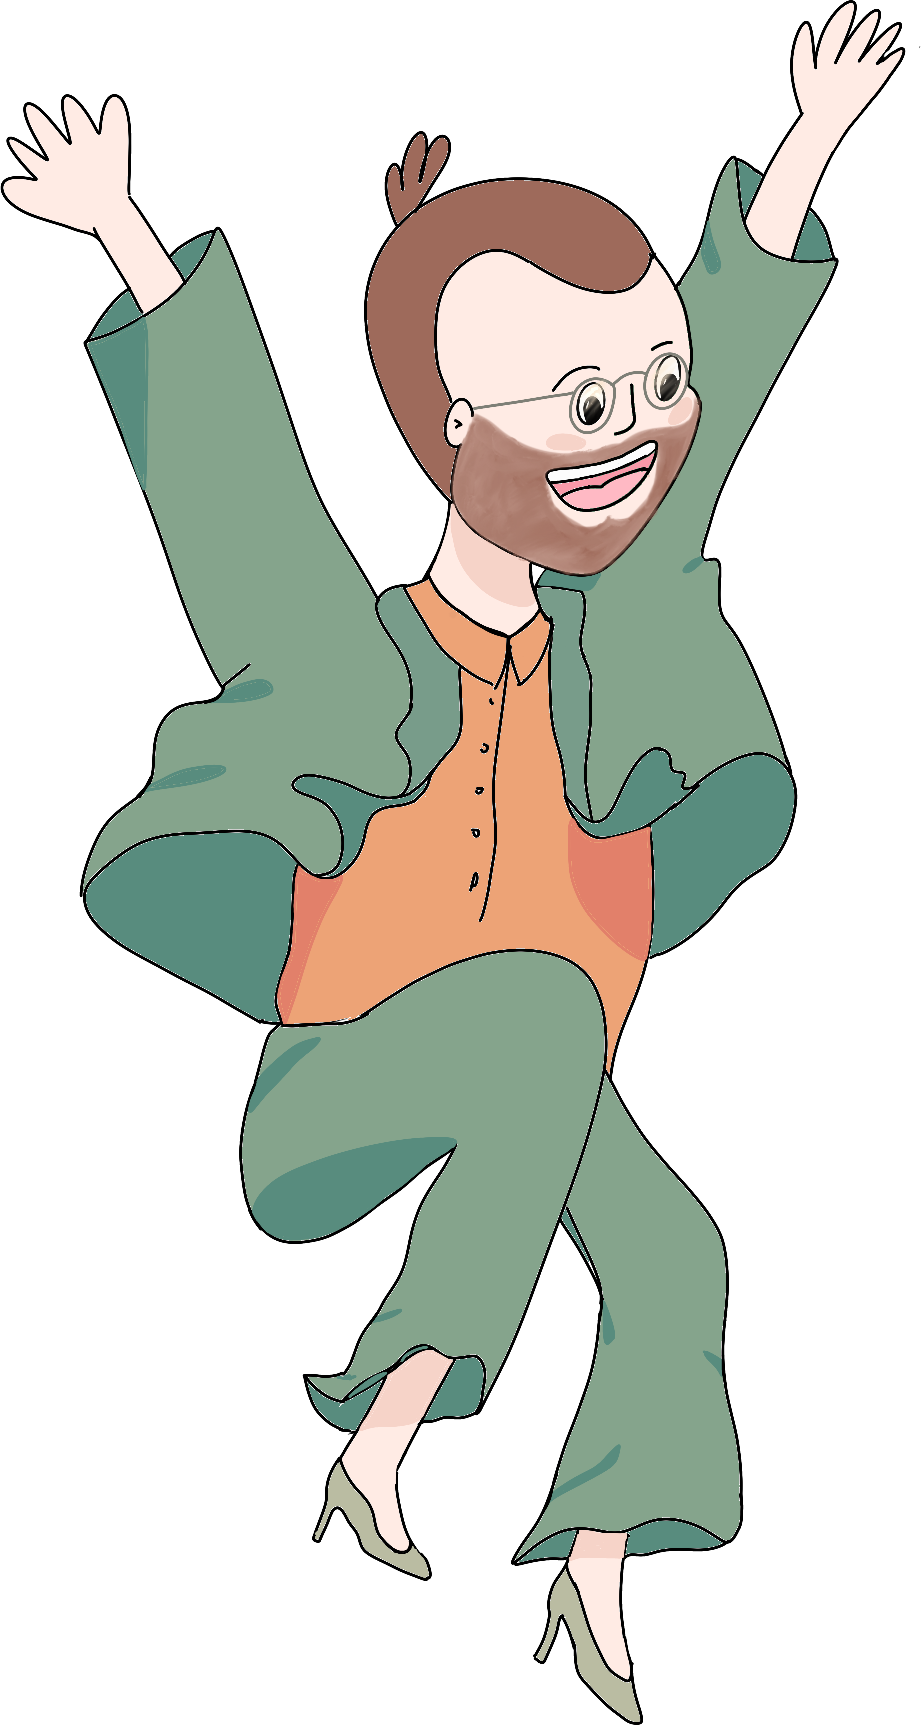
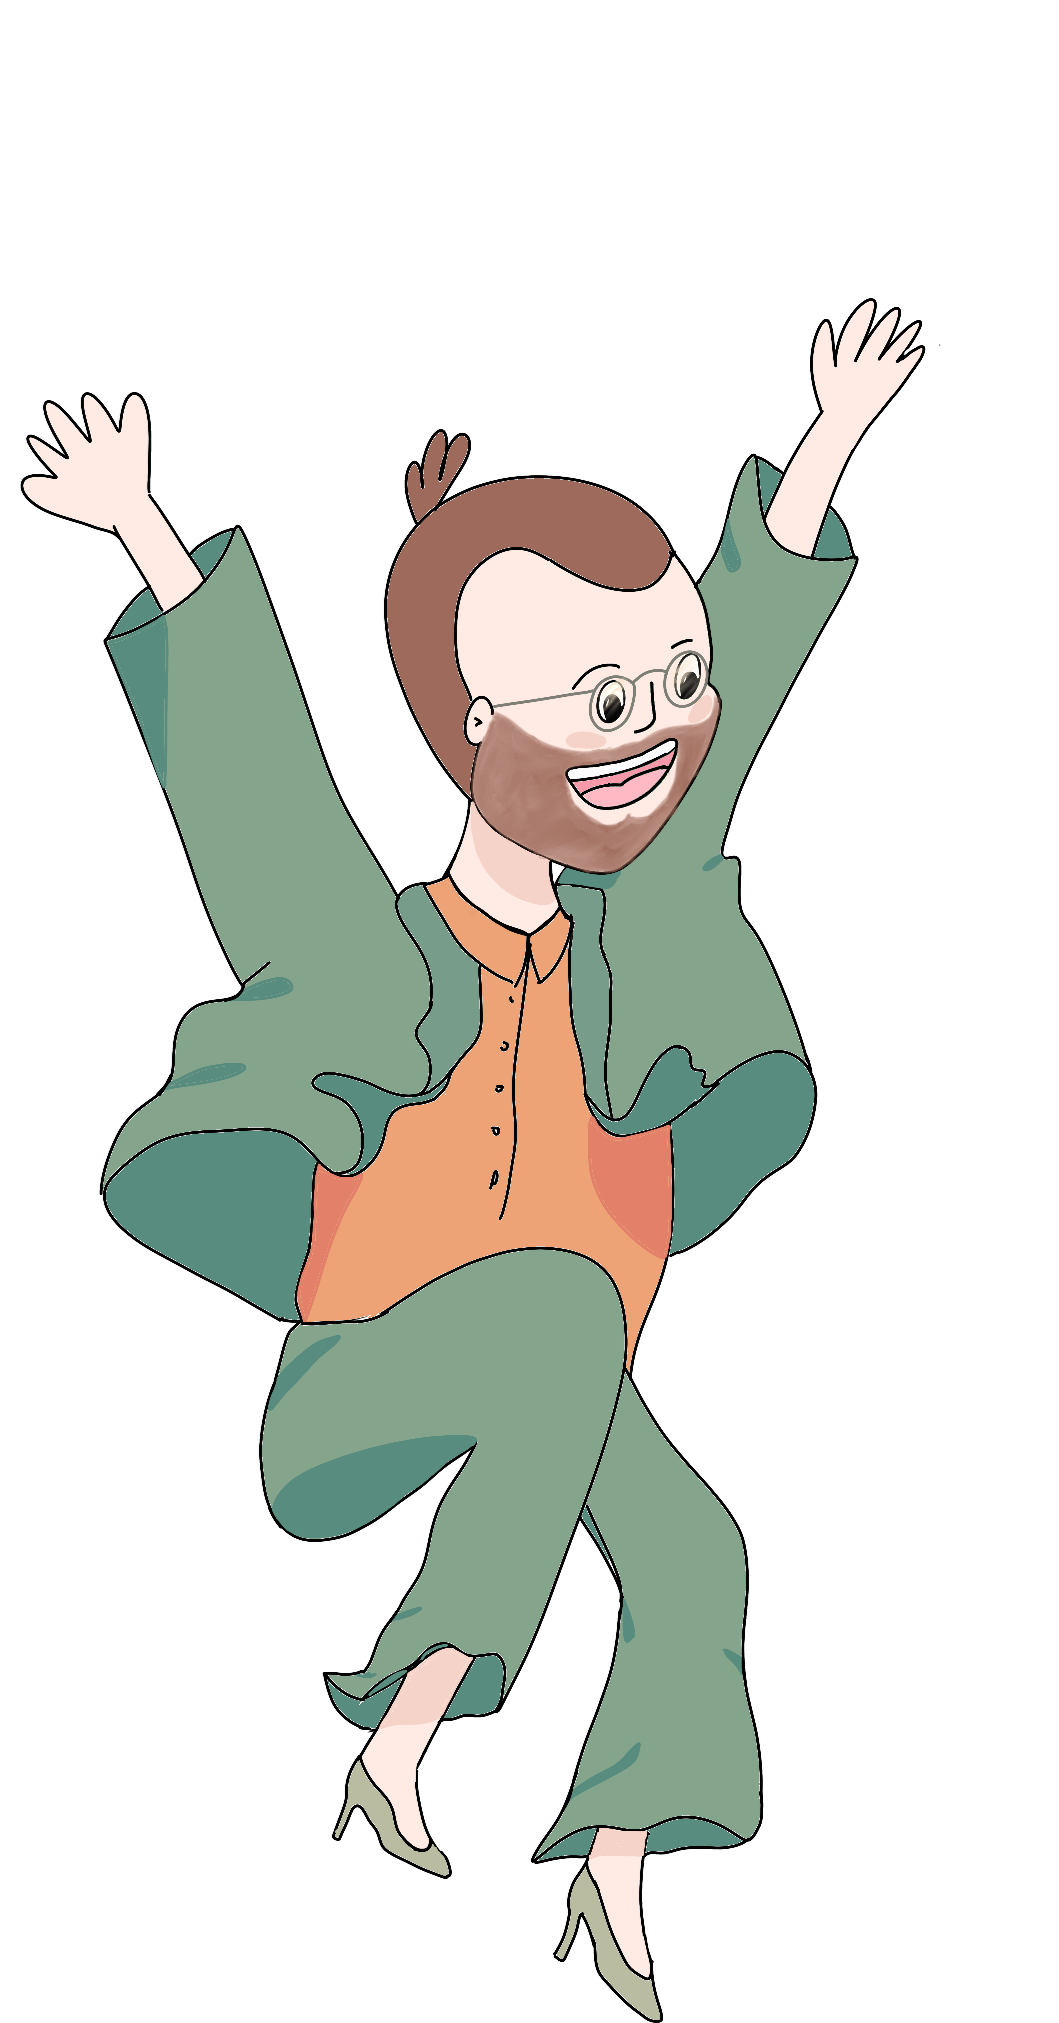
Fix run animation + falling asset

diff --git a/src/game/Game.ts b/src/game/Game.ts
@@ -41,6 +41,8 @@ export class Game {
   private background!: TilingSprite;
   private water!: TilingSprite;
   private jumpSprite!: Sprite;
+  private fallSprite!: Sprite;
+  private jumpInitiated = false;
   private runAnim!: AnimatedSprite;
   private textScore!: Text;
   private textHighScore!: Text;
@@ -103,6 +105,7 @@ export class Game {
       '/assets/tilesx4.png',
       '/assets/tilesx5.png',
       '/assets/luc-jump.png',
+      '/assets/luc-fall.png',
       '/assets/luc_run.json',
       '/assets/coins_anim.json',
       '/assets/sound_off.png',
@@ -167,8 +170,12 @@ export class Game {
     }
 
     this.jumpSprite = new Sprite(Texture.from('/assets/luc-jump.png'));
-    this.jumpSprite.scale.set(0.09);
+    this.jumpSprite.scale.set(0.11);
     stage.addChild(this.jumpSprite);
+
+    this.fallSprite = new Sprite(Texture.from('/assets/luc-fall.png'));
+    this.fallSprite.scale.set(0.105);
+    stage.addChild(this.fallSprite);
 
     const runSheet = Assets.get('/assets/luc_run.json');
     this.runAnim = new AnimatedSprite(runSheet.animations['luc_run']);
@@ -278,7 +285,11 @@ export class Game {
     const playerY = platformY - 250;
 
     this.jumpSprite.position.set(playerX, playerY);
-    this.jumpSprite.visible = true;
+    this.jumpSprite.visible = false;
+
+    this.fallSprite.position.set(playerX, playerY);
+    this.fallSprite.visible = true;
+    this.jumpInitiated = false;
 
     this.runAnim.scale.set(0.48, 0.48);
     this.runAnim.position.set(playerX, playerY);
@@ -303,19 +314,24 @@ export class Game {
 
     if (onGround) {
       if (s.isPress) {
+        this.jumpInitiated = true;
         s.vy = JUMP_VELOCITY;
         this.jumpSprite.position.set(player.x, player.y + player.height - this.jumpSprite.height);
+        this.fallSprite.position.set(this.jumpSprite.x, this.jumpSprite.y);
         player.visible = false;
         this.jumpSprite.visible = true;
+        this.fallSprite.visible = false;
         s.air = true;
         if (this.soundEnabled) {
           this.jumpSound.currentTime = 0;
           this.jumpSound.play();
         }
       } else {
+        this.jumpInitiated = false;
         s.vy = 0;
         player.position.set(this.jumpSprite.x, this.jumpSprite.y + this.jumpSprite.height - player.height);
         this.jumpSprite.visible = false;
+        this.fallSprite.visible = false;
         player.visible = true;
         player.y = s.currentPlatform!.y + 15 - player.height;
         s.air = false;
@@ -326,7 +342,14 @@ export class Game {
     } else {
       s.isPress = false;
       player.visible = false;
-      this.jumpSprite.visible = true;
+      if (this.jumpInitiated) {
+        this.jumpSprite.visible = true;
+        this.fallSprite.visible = false;
+      } else {
+        this.fallSprite.position.set(this.jumpSprite.x, this.jumpSprite.y);
+        this.fallSprite.visible = true;
+        this.jumpSprite.visible = false;
+      }
       s.vy += s.gravity;
       s.canBePressed = false;
     }
